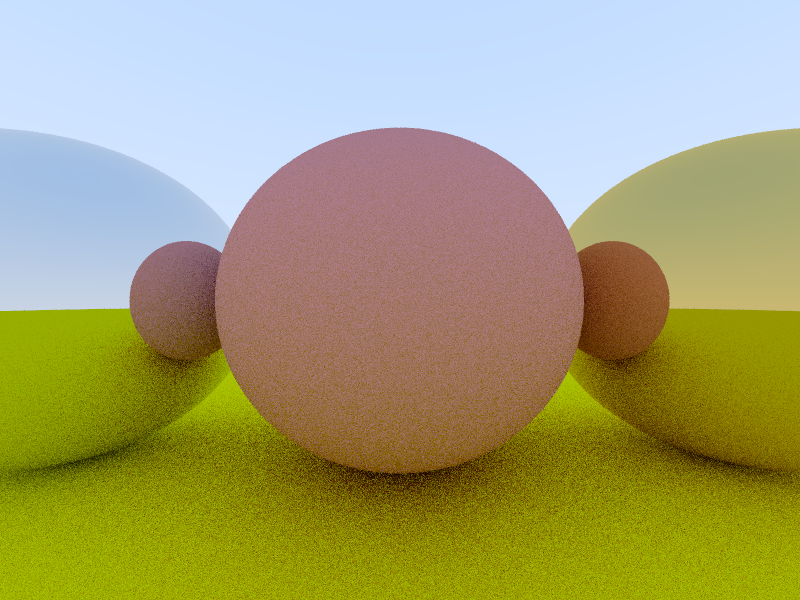
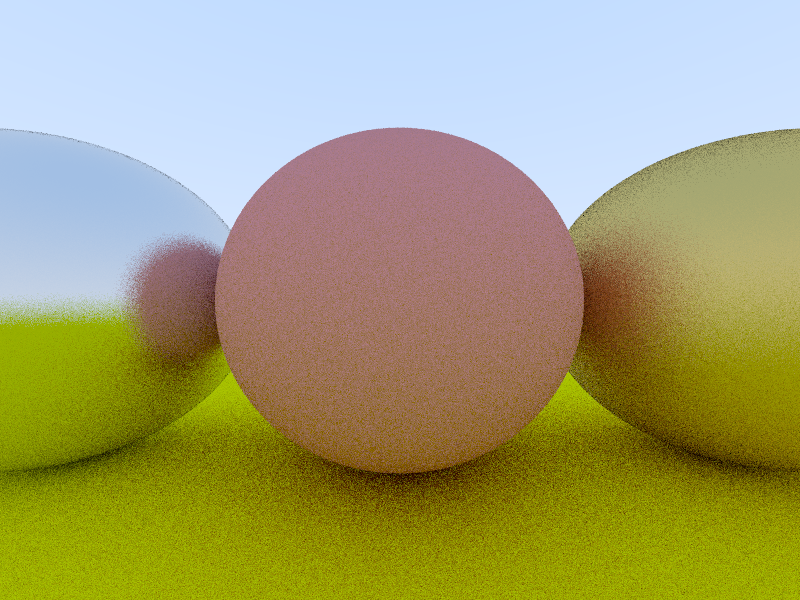
Fuzz metal.

Changed region(s): [[0.0, 0.24, 1.0, 1.0], [0.9062, 0.21, 1.0, 0.24]]

diff --git a/raytracer/src/lib.rs b/raytracer/src/lib.rs
@@ -515,11 +515,12 @@ impl Scatterable for Lambertian {
 #[derive(Debug, Clone, Copy)]
 pub struct Metal {
     pub albedo: Srgb,
+    pub fuzz: f64,
 }
 
 impl Metal {
-    pub fn new(albedo: Srgb) -> Metal {
-        Metal { albedo }
+    pub fn new(albedo: Srgb, fuzz: f64) -> Metal {
+        Metal { albedo, fuzz }
     }
 }
 
@@ -530,7 +531,7 @@ fn reflect(v: &Point3D, n: &Point3D) -> Point3D {
 impl Scatterable for Metal {
     fn scatter(&self, ray: &Ray, hit_record: &HitRecord) -> Option<(Ray, Srgb)> {
         let reflected = reflect(&ray.direction, &hit_record.normal);
-        let scattered = Ray::new(hit_record.point, reflected);
+        let scattered = Ray::new(hit_record.point, reflected +  Point3D::random_in_unit_sphere() * self.fuzz);
         let attenuation = self.albedo;
         if scattered.direction.dot(&hit_record.normal) > 0.0 {
             Some((scattered, attenuation))

diff --git a/raytracer/src/main.rs b/raytracer/src/main.rs
@@ -100,8 +100,8 @@ fn render(pixels: &mut [u8], bounds: (usize, usize)) {
     let material_center = Material::Lambertian(Lambertian::new(Srgb::new(
         0.7 as f32, 0.3 as f32, 0.3 as f32,
     )));
-    let material_left = Material::Metal(Metal::new(Srgb::new(0.8 as f32, 0.8 as f32, 0.8 as f32)));
-    let material_right = Material::Metal(Metal::new(Srgb::new(0.8 as f32, 0.6 as f32, 0.2 as f32)));
+    let material_left = Material::Metal(Metal::new(Srgb::new(0.8 as f32, 0.8 as f32, 0.8 as f32), 0.3));
+    let material_right = Material::Metal(Metal::new(Srgb::new(0.8 as f32, 0.6 as f32, 0.2 as f32), 1.0));
 
     let mut world: Vec<Sphere> = Vec::new();
     world.push(Sphere::new(
